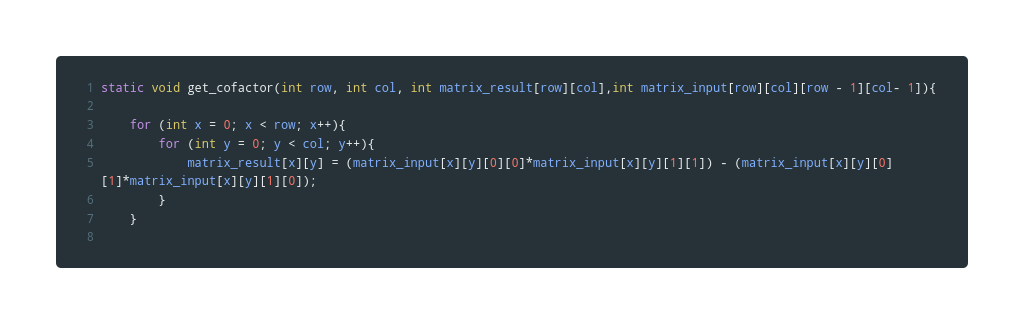
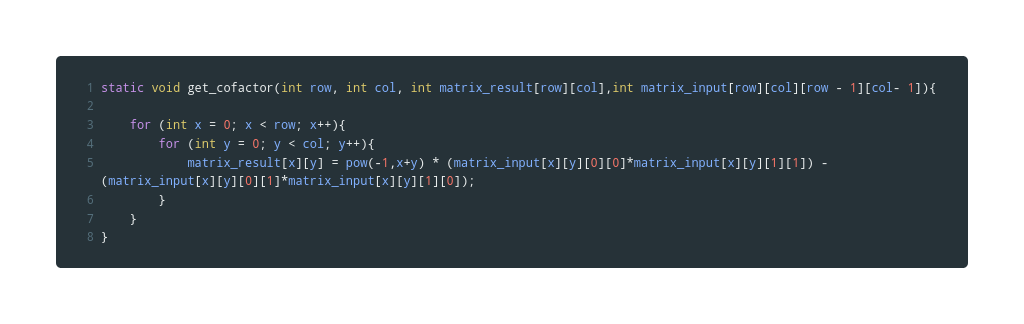
bug fix
bug fix on diff calculation

Changed region(s): [[0.2812, 0.463, 0.875, 0.5864], [0.0938, 0.5247, 0.25, 0.5864]]

diff --git a/PRAKTIKUM-2/CalculusLib.h b/PRAKTIKUM-2/CalculusLib.h
@@ -73,7 +73,7 @@ void get_differential_multivar(int row,int col, int diff_x, int diff_y, int func
     if(diff_x != 0){
         for (int i = 0; i < row; i++){
             for (int j = 0; j < col; j++){
-                int x = (diff_x != diff_y) ? (get_factorial(j)) : (j * diff_x);
+                int x = (abs(diff_x - diff_y) > 1) ? (get_factorial(j)) : (j * diff_x);
                 function_temp[i][j - diff_x] = function_input[i][j] * x;
             }
         }
@@ -84,7 +84,7 @@ void get_differential_multivar(int row,int col, int diff_x, int diff_y, int func
     if(diff_y != 0){
         for (int i = 0; i < row; i++){
             for (int j = 0; j < col; j++){
-                int x = (diff_x != diff_y) ? (get_factorial(i)) : (i * diff_y);
+                int x = (abs(diff_x - diff_y) > 1) ? (get_factorial(i)) : (i * diff_y);
                 function_output[i - diff_y][j] = function_temp[i][j] * x;
             }
         }

diff --git a/PRAKTIKUM-1/MatrixLib.h b/PRAKTIKUM-1/MatrixLib.h
@@ -192,7 +192,7 @@ static void get_cofactor(int row, int col, int matrix_result[row][col],int matri
 
     for (int x = 0; x < row; x++){
         for (int y = 0; y < col; y++){
-            matrix_result[x][y] = (matrix_input[x][y][0][0]*matrix_input[x][y][1][1]) - (matrix_input[x][y][0][1]*matrix_input[x][y][1][0]);
+            matrix_result[x][y] = pow(-1,x+y) * (matrix_input[x][y][0][0]*matrix_input[x][y][1][1]) - (matrix_input[x][y][0][1]*matrix_input[x][y][1][0]);
         }
     }
 }

diff --git a/PRAKTIKUM-2/PRAKTIKUM-2_1.c b/PRAKTIKUM-2/PRAKTIKUM-2_1.c
@@ -13,6 +13,9 @@ static int function_input[4][4] = {0,   0,  3,  0, // f(x,y) = x^3*y^3 + 3x^2 + 
 
 int function_output[4][4];
 
+float function_exp[4] = {0,0,0,3}; // 3X^3
+float function_out[4];
+
 int main(){
     
     printf("Representasi fungsi polynomial dengan matrix :\n");
